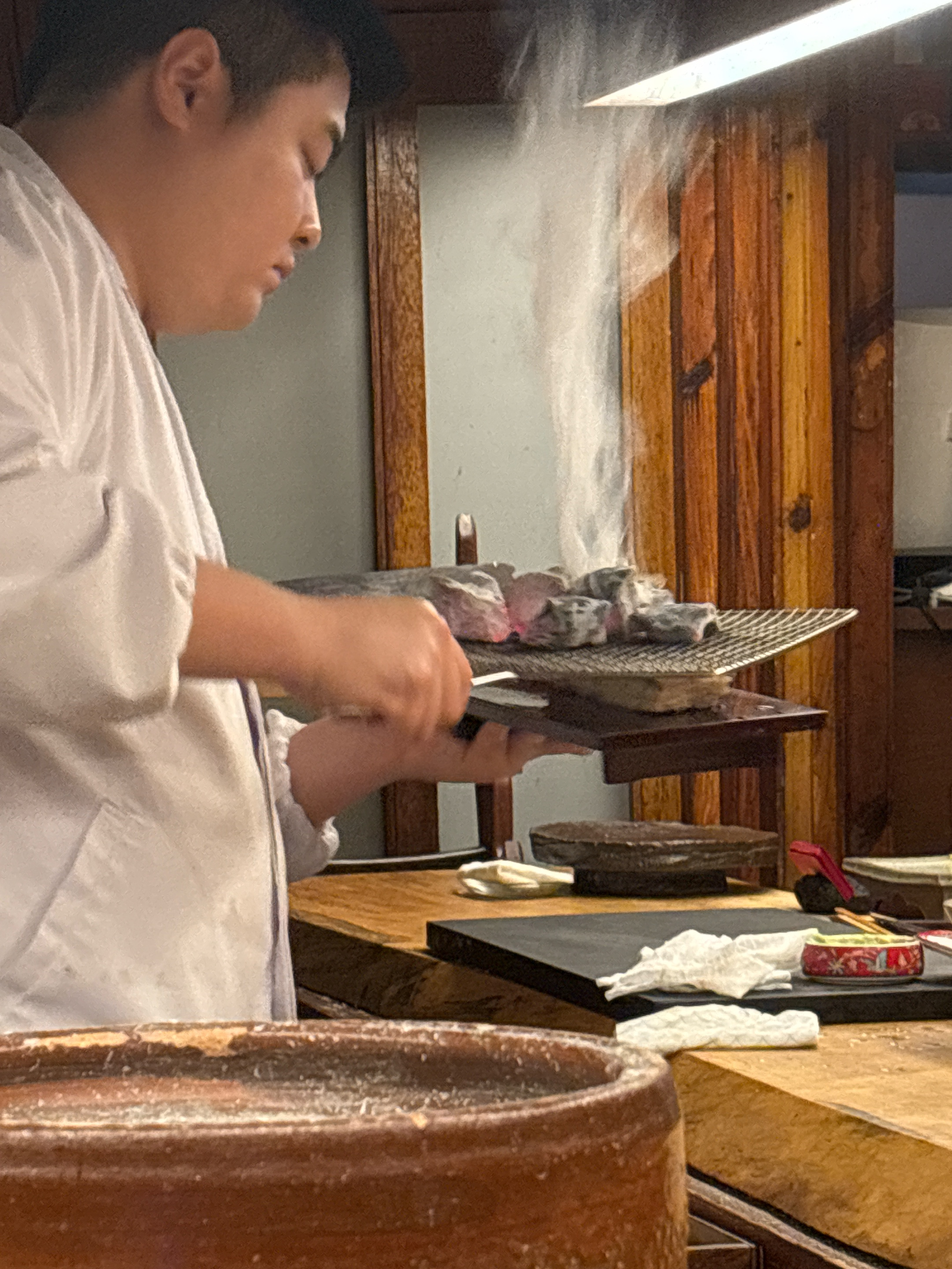
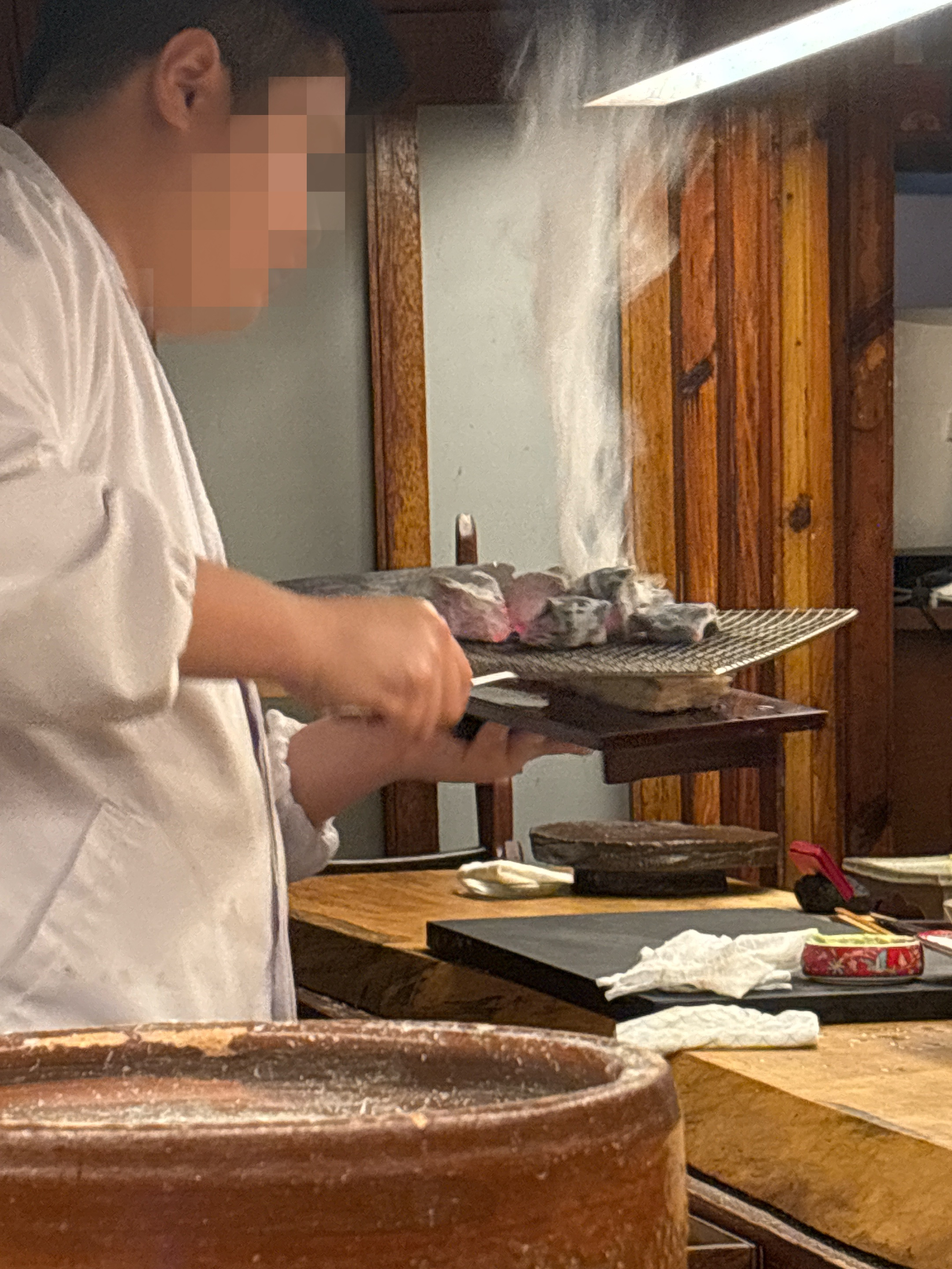
20260101

Changed region(s): [[0.2481, 0.0625, 0.4032, 0.25]]

diff --git a/_posts/2026-01-02-차트로 분석하는 2026년 미국 주식 전망 - 테슬라 구글 엔비디아 26년 차트 전망.md b/_posts/2026-01-02-차트로 분석하는 2026년 미국 주식 전망 - 테슬라 구글 엔비디아 26년 차트 전망.md
@@ -1,0 +1,61 @@
+---
+title: "차트로 분석하는 2026년 미국 주식 전망 - 테슬라 구글 엔비디아 26년 차트 전망"
+date: 2026-01-02
+categories:
+  - 투자
+tags: ["미국주식"]
+---
+
+# 미국주식 2026년 전망
+
+미국주식의 2025년은 +12.4%로 마감했습니다. <br>
+2025년 4월 트럼프 관세로 인한 엄청난 변동속 하락이후에 결국 모든 하락폭을 되돌리면서 상승으로 마감했네요. <br>
+
+<br>
+
+현재 제가 구글을 투자하고 있는 만큼, 2026년 미국주식은 과연 어떻게 될지 S&P500부터 빅테크 까지 차트로 한번 보려고합니다. <br>
+
+<br>
+
+그래서, 오늘은
+
+- "2025년 S&P500 차트"
+- "2026년 S&P500 차트 전망"
+- "빅테크 AI 차트 분석 (구글, 엔비디아, 테슬라)"
+
+이 주제를 중심으로, 차트로 알아보는 2026년 전망과 제 생각을 얘기해볼게요. 
+
+<br>
+<br>
+<br>
+
+---
+
+# 2025년 S&P500 차트 (년, 월, 주)
+
+## SPX (년봉)
+
+![Image Alt 텍스트](/assets/img/invest/251230/0.png)<br>
+
+SPX는 S&P500 지수 ETF종목이에요. <br>
+인플레이션으로 인한 FED의 22년 금리인상과 18년 금리인상이 우연찮게 맞물린지는 모르겠으나, <br>
+그동안 S&P500는 우연찮게 중간선거때 성적이 좋진 못했습니다. <br>
+
+<br>
+
+> 통상적으로 S&P500은 3-4년 상승하면 그다음해는 꼭 음봉마감하는 경향을 보였습니다.
+
+<br>
+<br>
+
+## SPX (월봉)
+
+---
+
+# 2026년 S&P500 차트 전망
+
+
+---
+
+# 빅테크 AI 차트 분석 (구글, 엔비디아, 테슽라)
+
